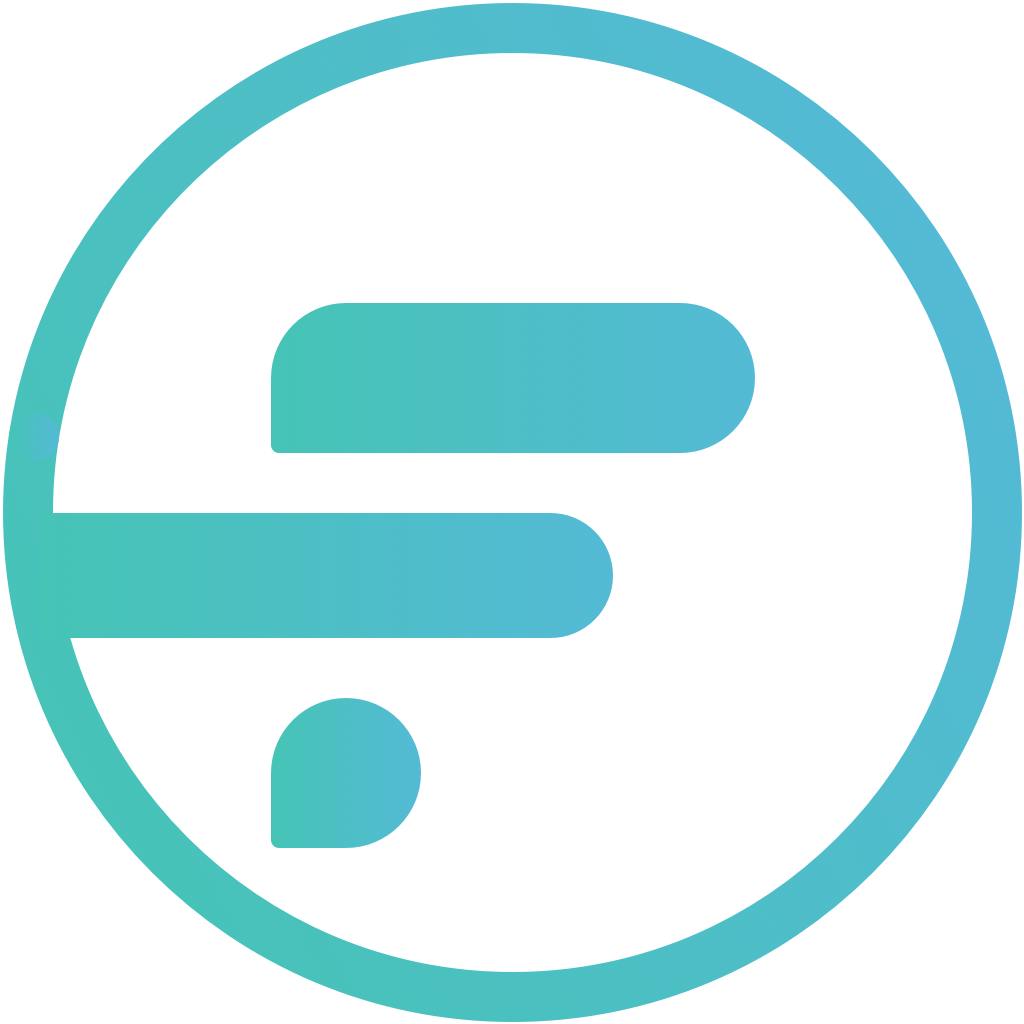
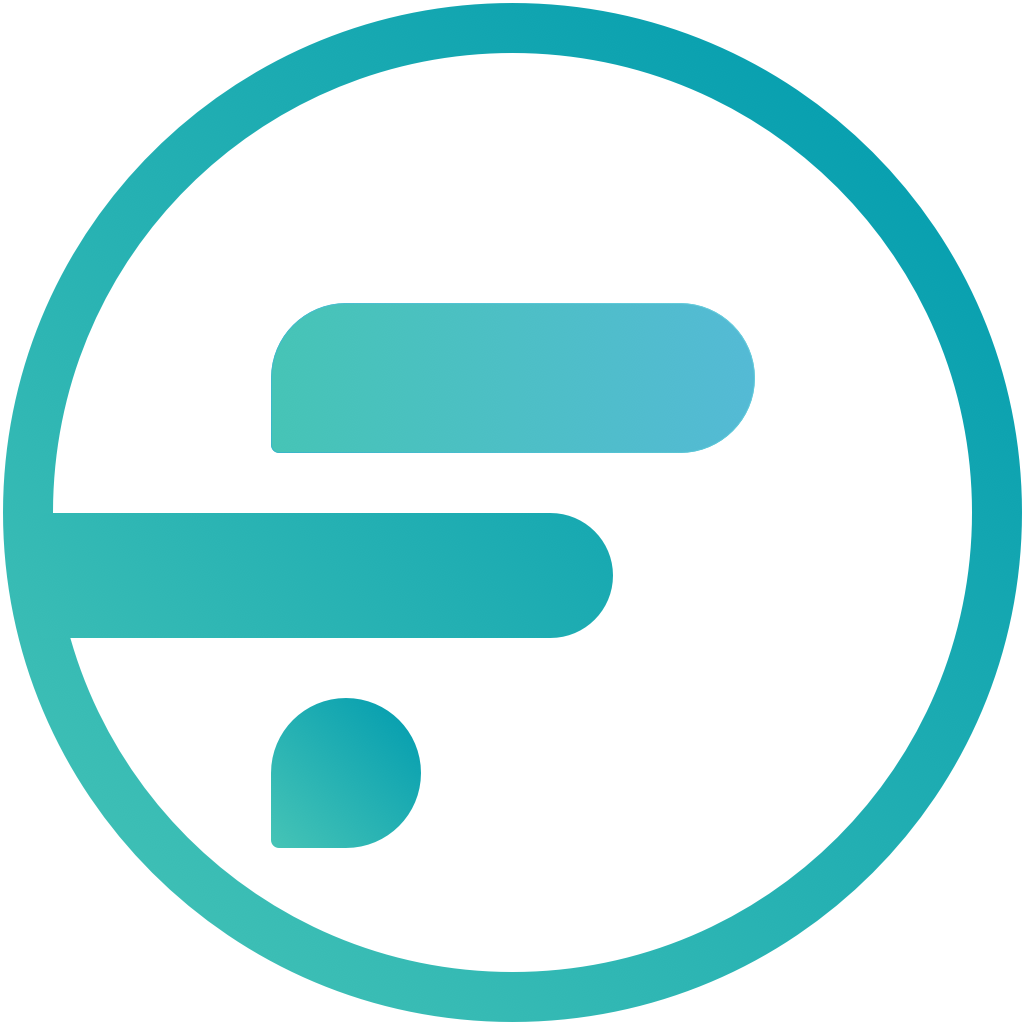
adding in styling for user auth and login button

Changed region(s): [[0.0, 0.0, 1.0, 1.0], [0.0938, 0.5, 0.5938, 0.625], [0.25, 0.6562, 0.4375, 0.8438]]

diff --git a/src/components/UserAuth/UserAuth.jsx b/src/components/UserAuth/UserAuth.jsx
@@ -3,6 +3,7 @@ import { Tabs, Col, Divider, Button, Icon } from 'antd';
 import LoginForm from './LoginForm';
 import SignUpForm from './SignUpForm';
 import './UserAuth.css';
+import logo from '../../images/flowist.png';
 
 const TabPane = Tabs.TabPane;
 
@@ -14,20 +15,25 @@ export class UserAuth extends Component {
 	render() {
 		return (
 			<div id="main-panel" className="centered">
-				<Col xs={2} sm={7} md={8} lg={9} xl={9} />
-				<Col xs={20} sm={10} md={8} lg={6} xl={6} id="main-panel-user-auth">
-					<Tabs onChange={callback} type="card" style={{ 'text-align': 'left' }}>
-						<TabPane tab="Login" key="1">
-							<div className="gutter-box">
-								<LoginForm />
-							</div>
-						</TabPane>
-						<TabPane tab="Sign Up" key="2">
-							<div className="gutter-box">
-								<SignUpForm />
-							</div>
-						</TabPane>
-					</Tabs>
+				<Col xs={2} sm={7} md={8} lg={8} xl={9} />
+				<Col xs={20} sm={10} md={8} lg={8} xl={6} id="main-panel-user-auth">
+					<div className="card-container">
+						<div id="app-logo-div">
+							<img src={logo} id="app-logo" alt="Flowist Logo" />
+						</div>
+						<Tabs onChange={callback} type="card" style={{ 'text-align': 'left' }}>
+							<TabPane tab="Login" key="1">
+								<div className="gutter-box">
+									<LoginForm />
+								</div>
+							</TabPane>
+							<TabPane tab="Sign Up" key="2">
+								<div className="gutter-box">
+									<SignUpForm />
+								</div>
+							</TabPane>
+						</Tabs>
+					</div>
 					<Divider style={{ color: '#ccc' }}>or</Divider>
 					<div id="social-login">
 						<Button type="default" block>
@@ -41,7 +47,7 @@ export class UserAuth extends Component {
 						</Button>
 					</div>
 				</Col>
-				<Col xs={2} sm={7} md={8} lg={9} xl={9} />
+				<Col xs={2} sm={7} md={8} lg={8} xl={9} />
 			</div>
 		);
 	}

diff --git a/src/components/UserAuth/UserAuth.css b/src/components/UserAuth/UserAuth.css
@@ -1,24 +1,61 @@
-#main-panel {
-    margin-top: 15vh;
+#social-login {
+    background-color: #fff;
+    border-radius: 4px;
+    border: 1px solid #e8e8e8;
+    padding: 16px;
 }
 
 #social-login > Button {
-    margin-top: 12px;
-    text-align: left;
+	margin-top: 12px;
+	text-align: left;
 }
 
-.ant-btn > .anticon + span, .ant-btn > span + .anticon {
-    margin-left: 15px;
+#app-logo {
+    height: 35%;
+	width: 35%;
+	margin: 25px auto;
+	display: block;
 }
 
-.green-btn {
-    background-color: #1bb15a;
-    border-color: #168f48;
-    color: #fff;
+.ant-btn > .anticon + span,
+.ant-btn > span + .anticon {
+	margin-left: 15px;
 }
 
-.green-btn:hover {
-    background-color: #1dc060;
-    border-color: #1bb15a;
-    color: #fff;
+/* 
+* Makes the card style around a tab
+*/
+.card-container > .ant-tabs-card > .ant-tabs-content {
+    margin-top: -16px;
+    border-radius: 4px;
 }
+
+.card-container > .ant-tabs-card > .ant-tabs-content > .ant-tabs-tabpane {
+    background: #fff;
+    border-left: 1px solid #e8e8e8;
+    border-right: 1px solid #e8e8e8;
+    border-bottom: 1px solid #e8e8e8;
+    border-bottom-left-radius: 4px;
+    border-bottom-right-radius: 4px;
+	padding: 16px;
+}
+
+.ant-tabs.ant-tabs-card .ant-tabs-card-bar .ant-tabs-tab {
+    margin-right: 0;
+}
+
+/* .card-container > .ant-tabs-card > .ant-tabs-bar {
+	border-color: #fff;
+} */
+.card-container > div > div.ant-tabs-bar.ant-tabs-top-bar.ant-tabs-card-bar > div > div > div > div {
+    width: 100%;
+}
+
+.card-container > .ant-tabs-card > .ant-tabs-bar .ant-tabs-tab {
+	width: 50%;
+}
+
+/* .card-container > .ant-tabs-card > .ant-tabs-bar .ant-tabs-tab-active {
+	border-color: #fff;
+	background: #fff;
+} */

diff --git a/src/components/UserAuth/SignUpForm/SignUpForm.jsx b/src/components/UserAuth/SignUpForm/SignUpForm.jsx
@@ -73,7 +73,7 @@ export class SignUpFormNormal extends Component {
 								message: 'Please input your E-mail!'
 							}
 						]
-					})(<Input />)}
+					})(<Input size='large'/>)}
 				</Form.Item>
 				<Form.Item {...formItemLayout} label="Password">
 					{getFieldDecorator('password', {
@@ -86,7 +86,7 @@ export class SignUpFormNormal extends Component {
 								validator: this.validateToNextPassword
 							}
 						]
-					})(<Input type="password" />)}
+					})(<Input size='large' type="password" />)}
 				</Form.Item>
 				<Form.Item {...formItemLayout} label="Confirm Password">
 					{getFieldDecorator('confirm', {
@@ -99,7 +99,7 @@ export class SignUpFormNormal extends Component {
 								validator: this.compareToFirstPassword
 							}
 						]
-					})(<Input type="password" onBlur={this.handleConfirmBlur} />)}
+					})(<Input size='large' type="password" onBlur={this.handleConfirmBlur} />)}
 				</Form.Item>
 				<Form.Item {...tailFormItemLayout}>
 					{getFieldDecorator('agreement', {
@@ -111,7 +111,7 @@ export class SignUpFormNormal extends Component {
 					)}
 				</Form.Item>
 				<Form.Item {...tailFormItemLayout}>
-					<Button type="primary" className="green-btn" block htmlType="submit">
+					<Button size='large' type="primary" className="green-btn" block htmlType="submit">
 						Register
 					</Button>
 				</Form.Item>

diff --git a/src/components/Sidebar/Sidebar.jsx b/src/components/Sidebar/Sidebar.jsx
@@ -1,7 +1,7 @@
 import React, { Component } from 'react';
 import { withRouter } from 'react-router';
 import { Link } from 'react-router-dom';
-import { Layout, Menu, Icon } from 'antd';
+import { Layout, Menu, Icon, Button } from 'antd';
 import logo from '../../images/flowist.png';
 import './Sidebar.css';
 
@@ -37,7 +37,9 @@ export class Sidebar extends Component {
 				onCollapse={this.onCollapse}
 			>
 				<div id="app-sidebar-logo-div">
-					<img src={logo} id="app-sidebar-logo" alt="Flowist Logo" />
+					<Link to="/">
+						<img src={logo} id="app-sidebar-logo" alt="Flowist Logo" />
+					</Link>
 				</div>
 				<Menu theme={this.state.theme} defaultSelectedKeys={[ this.props.location.pathname ]} mode="inline">
 					<Menu.Item key="/">
@@ -64,6 +66,11 @@ export class Sidebar extends Component {
 							<span>#settings</span>
 						</Link>
 					</Menu.Item>
+					<Link to="/user">
+						<Button size="large" type="primary" id='signin-login-btn'>
+							login
+						</Button>
+					</Link>
 				</Menu>
 			</Sider>
 		);

diff --git a/src/components/UserAuth/LoginForm/LoginForm.jsx b/src/components/UserAuth/LoginForm/LoginForm.jsx
@@ -30,6 +30,7 @@ export class LoginFormNormal extends Component {
 						rules: [ { required: true, message: 'Please input your username!' } ]
 					})(
 						<Input
+							size='large'
 							prefix={<Icon type="user" style={{ color: 'rgba(0,0,0,.25)' }} />}
 							placeholder="Username"
 						/>
@@ -40,6 +41,7 @@ export class LoginFormNormal extends Component {
 						rules: [ { required: true, message: 'Please input your Password!' } ]
 					})(
 						<Input
+							size='large'
 							prefix={<Icon type="lock" style={{ color: 'rgba(0,0,0,.25)' }} />}
 							type="password"
 							placeholder="Password"
@@ -54,7 +56,7 @@ export class LoginFormNormal extends Component {
 					<a className="login-form-forgot" href="">
 						Forgot password
 					</a>
-					<Button block type="primary" htmlType="submit" className="login-form-button green-btn">
+					<Button block size='large' type="primary" htmlType="submit" className="login-form-button green-btn">
 						Log in
 					</Button>
 				</Form.Item>

diff --git a/src/App.css b/src/App.css
@@ -19,3 +19,15 @@
     
     text-align: center;
 }
+
+.green-btn {
+	background-color: #1bb15a;
+	border-color: #168f48;
+	color: #fff;
+}
+
+.green-btn:hover {
+	background-color: #1dc060;
+	border-color: #1bb15a;
+	color: #fff;
+}

diff --git a/src/components/Sidebar/Sidebar.css b/src/components/Sidebar/Sidebar.css
@@ -5,6 +5,12 @@
 	display: block;
 }
 
+#signin-login-btn {
+	width: 80%;
+	margin-left: 10%;
+	margin-top: 10%;
+}
+
 .sider {
 	-moz-box-shadow: -3px 0 10px 0 #999;
 	-webkit-box-shadow: -3px 0 10px 0 #999;

diff --git a/config-overrides.js b/config-overrides.js
@@ -8,6 +8,6 @@ module.exports = override(
 	}),
 	addLessLoader({
 		javascriptEnabled: true,
-		modifyVars: {}
+		modifyVars: { '@primary-color': '#009BAF' },
 	}),
 );
